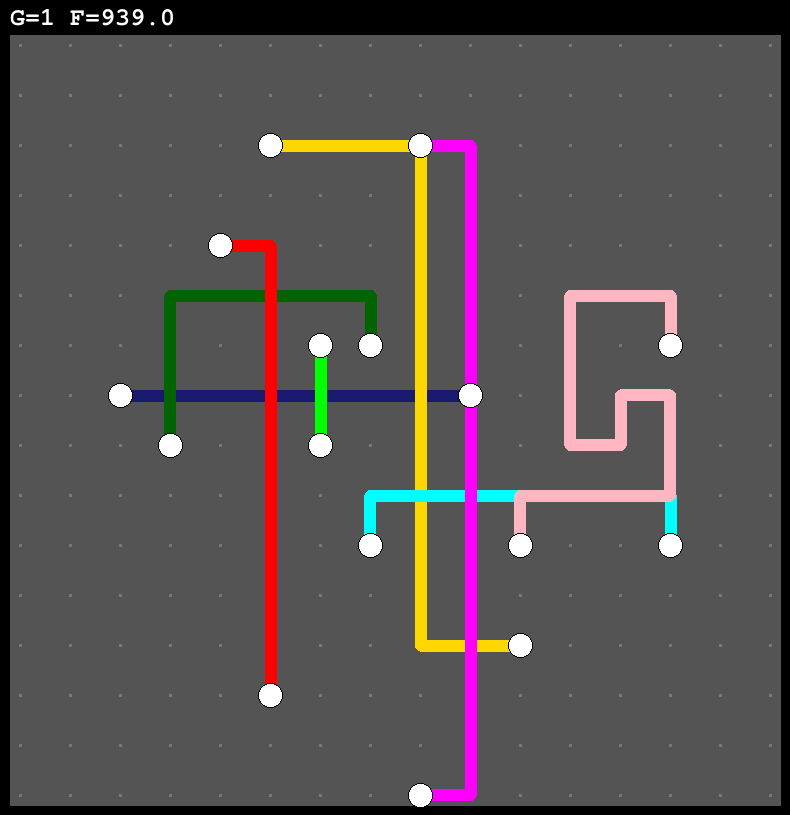
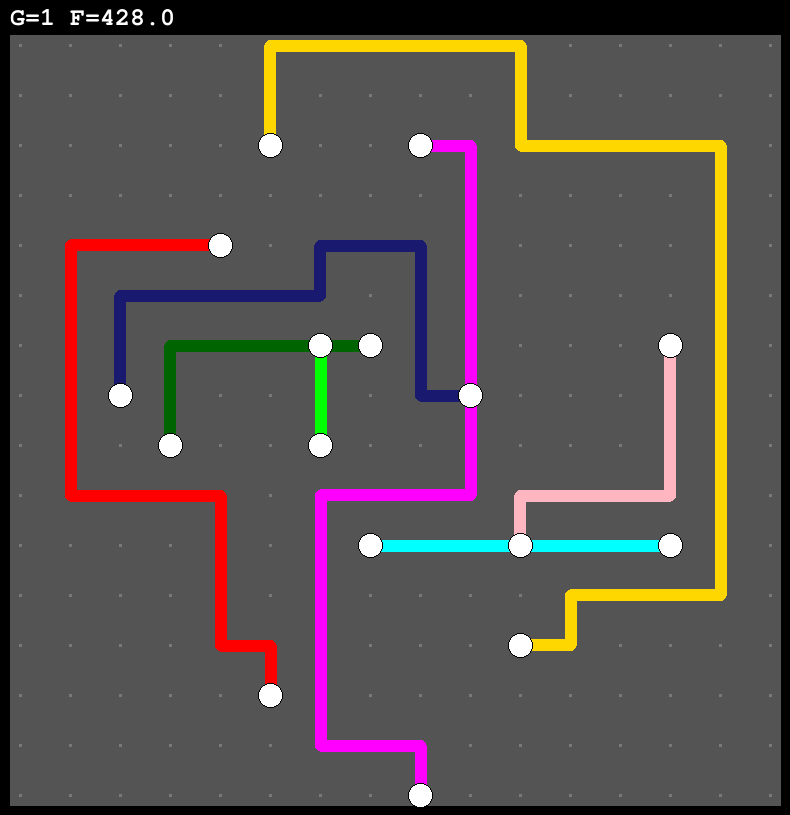
.

Changed region(s): [[0.0608, 0.184, 0.6684, 0.9816], [0.3342, 0.0307, 0.9418, 0.7975], [0.1215, 0.0, 0.1823, 0.0307]]

diff --git a/PCBGenericAlgorithm/Lab1/Path.py b/PCBGenericAlgorithm/Lab1/Path.py
@@ -1,3 +1,4 @@
+from copy import deepcopy
 from random import randint
 
 import numpy as np
@@ -19,6 +20,7 @@ class Path:
         self.configuration = config
 
     def randomize(self):
+        self.segments = []
         current_position = [self.start[0], self.start[1]]
         prev_dir = -1
         while current_position != [self.end[0], self.end[1]]:
@@ -72,10 +74,13 @@ class Path:
     def __mutation_type_a(self):
         random_direction_prob = np.random.random(1)[0]
         random_segment_index = randint(0, len(self.segments) - 1)
-        curr_direction, curr_l = self.segments[random_segment_index]
-        direction = -1
-        prev_segment_to_insert = None
-        next_segment_to_insert = None
+        move = randint(1, MUTATE_MOVE)
+        new_segments = []
+        copied_segments = deepcopy(self.segments)
+        if random_segment_index > 0:
+            new_segments.extend(copied_segments[:random_segment_index - 1])
+
+        curr_direction, curr_l = copied_segments[random_segment_index]
 
         if curr_direction in [0, 2]:
             direction = 1 if random_direction_prob > 0.5 else 3
@@ -84,40 +89,41 @@ class Path:
 
         # prev
         if random_segment_index > 0:
-            prev_direction, prev_l = self.segments[random_segment_index - 1]
+            prev_direction, prev_l = copied_segments[random_segment_index - 1]
             if prev_direction == curr_direction:
-                prev_segment_to_insert = [direction, MUTATE_MOVE]
+                new_segments.append([prev_direction, prev_l])
+                new_segments.append([direction, move])
             else:
-                self.segments[random_segment_index - 1][1] += 1 if direction == prev_direction else -1
-                if self.segments[random_segment_index - 1][1] == 0:
-                    self.segments.remove(random_segment_index - 1)
+                copied_segments[random_segment_index - 1][1] += (1 if direction == prev_direction else -1) * move
+                if copied_segments[random_segment_index - 1][1] != 0:
+                    new_segments.append(copied_segments[random_segment_index - 1])
         else:
-            prev_segment_to_insert = [direction, MUTATE_MOVE]
+            new_segments.append([direction, move])
+
+        new_segments.append(copied_segments[random_segment_index])
 
         # next
-        if random_segment_index != len(self.segments) - 1:
-            next_direction, next_l = self.segments[random_segment_index + 1]
+        if random_segment_index != len(copied_segments) - 1:
+            next_direction, next_l = copied_segments[random_segment_index + 1]
             if next_direction == curr_direction:
-                next_segment_to_insert = [(direction + 2) % 4, MUTATE_MOVE]
+                new_segments.append([(direction + 2) % 4, move])
+                new_segments.append([next_direction, next_l])
             else:
-                self.segments[random_segment_index + 1][1] += 1 if direction != next_direction else -1
-                if self.segments[random_segment_index + 1][1] == 0:
-                    self.segments.remove(random_segment_index + 1)
+                copied_segments[random_segment_index + 1][1] += (1 if direction != next_direction else -1) * move
+                if copied_segments[random_segment_index + 1][1] != 0:
+                    new_segments.append(copied_segments[random_segment_index + 1])
         else:
-            next_segment_to_insert = [(direction + 2) % 4, MUTATE_MOVE]
+            new_segments.append([(direction + 2) % 4, move])
 
-        if next_segment_to_insert is not None:
-            self.segments.insert(random_segment_index + 1, next_segment_to_insert)
+        new_segments.extend(copied_segments[random_segment_index + 2:])
 
-        if prev_segment_to_insert is not None:
-            self.segments.insert(random_segment_index, prev_segment_to_insert)
-            # insert poprzedni na i a następny na i + 1
-
-        test = self.is_correct()
+        self.segments = new_segments
 
     def is_correct(self):
         curr = self.start
         for direction, l in self.segments:
             curr = get_current_position(curr, direction, l)
-        x = curr == self.end
+
+        x = curr[0] == self.end[0] and curr[1] == self.end[1]
+
         return x

diff --git a/PCBGenericAlgorithm/Lab1/Problem.py b/PCBGenericAlgorithm/Lab1/Problem.py
@@ -1,5 +1,7 @@
 import time
 
+from console_progressbar import ProgressBar
+
 from Config import Config
 from Consts import FILE, POPULATION_NUMBER, EPOCHS_WITHOUT_BEST
 from Population import Population
@@ -21,32 +23,37 @@ class Problem:
 
         print("\n")
 
-        while counter > EPOCHS_WITHOUT_BEST:
+        while self.condition(counter):
             epoch += 1
             next_pop = Population(self.config)
-            while len(next_pop) == POPULATION_NUMBER:
+            pb = ProgressBar(total=POPULATION_NUMBER, prefix=f'Epoch: {epoch}', suffix='Completed', decimals=1,
+                             length=50,
+                             fill='█', zfill='-')
+            while len(next_pop) != POPULATION_NUMBER:
+                w = len(next_pop)
+                pb.print_progress_bar(w + 1)
                 parent1 = prev_population.tournament()
                 parent2 = prev_population.roulette()
 
                 new_solution = cross(parent1, parent2, self.config)
                 new_solution.mutate()
+                next_pop.add_solution(new_solution)
 
-                if new_solution > best:
-                    best = new_solution
-                    counter = 0
+            new_best = next_pop.get_best()
+            prev_population = next_pop
+            counter += 1
+            print("Best: " + str(new_best.fitness) + ", current best: " + str(
+                best.fitness) + ", " + "Algorithm ends in: " + str(EPOCHS_WITHOUT_BEST - counter))
+            if new_best < best:
+                best = new_best
+                counter = 0
 
         best.to_png()
 
+    def condition(self, counter):
+        return counter < EPOCHS_WITHOUT_BEST
 
 
 if __name__ == "__main__":
-    x = 1 / 7 + 1 / 2 + 1 / 5
-
-    a = 1 / (2 * x)
-    b = 1 / (7 * x)
-    c = 1 / (5 * x)
-    xx = [0, 1, 2, 3, 4, 5, 6, 7, 8]
-    xx.insert(8 + 1, 10)
-    print(xx)
     problem = Problem()
     problem.run_problem()

diff --git a/PCBGenericAlgorithm/Lab1/Solution.py b/PCBGenericAlgorithm/Lab1/Solution.py
@@ -1,4 +1,5 @@
 import json
+from copy import deepcopy
 from random import randint
 
 import numpy as np
@@ -39,7 +40,6 @@ class Solution:
         for start, end in self.configuration.pairs:
             current_path = Path(start, end, self.configuration)
             current_path.randomize()
-
             self.paths.append(current_path)
 
     def get_fitness(self):
@@ -82,12 +82,10 @@ class Solution:
             all_segments.extend(segment)
 
         length_sum = sum(map(lambda _x: _x[1], all_segments))
-        if len(all_segments) == 4:
-            x = 10
         out_of_board_sum, out_of_board = self.__get_out_of_board_length()
         intersections = self.__get_intersection_number()
         return \
-            length_sum + len(all_segments) \
+            length_sum \
             + (out_of_board_sum * SUM_OUT_OF_BOARD_PENALTY) \
             + (out_of_board * OUT_OF_BOARD_PENALTY) \
             + (intersections * INTERSECTIONS_PENALTY)
@@ -217,12 +215,12 @@ def cross(parent1: Solution, parent2: Solution, configuration: Config):
 
     if random <= CROSS_PROBABILITY:
         point = randint(0, len(parent1.paths))
-        paths.extend(parent1.paths[:point])
-        paths.extend(parent2.paths[point:])
+        paths.extend(deepcopy(parent1.paths[:point]))
+        paths.extend(deepcopy(parent2.paths[point:]))
     else:
         if random > .5:
-            paths.extend(parent1.paths)
+            paths.extend(deepcopy(parent1.paths))
         else:
-            paths.extend(parent2.paths)
+            paths.extend(deepcopy(parent2.paths))
 
-    return Solution(configuration, paths)
+    return Solution(configuration, deepcopy(paths))

diff --git a/PCBGenericAlgorithm/Lab1/Consts.py b/PCBGenericAlgorithm/Lab1/Consts.py
@@ -7,9 +7,9 @@ SECOND_SPLITTER = ","
 
 # ------------------------------------------------------
 # --------------------- PENALTIES ----------------------
-SUM_OUT_OF_BOARD_PENALTY = 1.5
-OUT_OF_BOARD_PENALTY = 2.5
-INTERSECTIONS_PENALTY = 20.5
+SUM_OUT_OF_BOARD_PENALTY = 15.5
+OUT_OF_BOARD_PENALTY = 7.5
+INTERSECTIONS_PENALTY = 45
 # --------------------------------------------------------
 
 
@@ -24,23 +24,23 @@ LEFT = 3
 
 # --------------------------------------------------------
 # --------------------- PROBABILITIES --------------------
-CLOSER_PROBABILITY = 2
+CLOSER_PROBABILITY = 3
 # --------------------------------------------------------
 
 # --------------------------------------------------------
 # ---------------------- INIT CONFIG ---------------------
-BEST_INIT_ITERATION = 2
+BEST_INIT_ITERATION = 5
 # --------------------------------------------------------
 
 
 FILE = "test_file2"
-POPULATION_NUMBER = 100
-TOURNAMENT_SIZE = 10
-CROSS_PROBABILITY = 0.05
+POPULATION_NUMBER = 500
+TOURNAMENT_SIZE = int(POPULATION_NUMBER/4)
+CROSS_PROBABILITY = 0.2
 INHERIT_PARENT = 0  # left parent(0) right(1)
-MUTATE_MOVE = 1
-PATH_MUTATION_PROBABILITY = 0.05
-EPOCHS_WITHOUT_BEST = 5
+MUTATE_MOVE = 2
+PATH_MUTATION_PROBABILITY = 0.2
+EPOCHS_WITHOUT_BEST = 15
 
 JSON_FILE = "assets/solution_to_print.json"
 OUTPUT = "assets/output.png"

diff --git a/PCBGenericAlgorithm/Lab1/Population.py b/PCBGenericAlgorithm/Lab1/Population.py
@@ -34,9 +34,9 @@ class Population:
         picked_parents = []
 
         for i in range(0, TOURNAMENT_SIZE):
-            random = randint(0, len(self.population))
+            random = randint(0, len(self.population) - 1)
             while random in picked_parents:
-                random = randint(0, len(self.population))
+                random = randint(0, len(self.population) - 1)
 
             picked_parents.append(random)
 
@@ -53,13 +53,13 @@ class Population:
         probabilities = list(map(lambda _x: _x / weights_sum, weights))
         random = np.random.random(1)[0]
 
-        for i in range(0, len(probabilities) - 1):
+        for i in range(0, len(probabilities)):
             previous = np.sum(probabilities[0:i + 1])
             if i + 1 == len(probabilities):
-                return probabilities[i]
+                return self.population[i]
 
             if previous <= random < previous + probabilities[i + 1]:
-                return probabilities[i]
+                return self.population[i]
 
         return None
 
